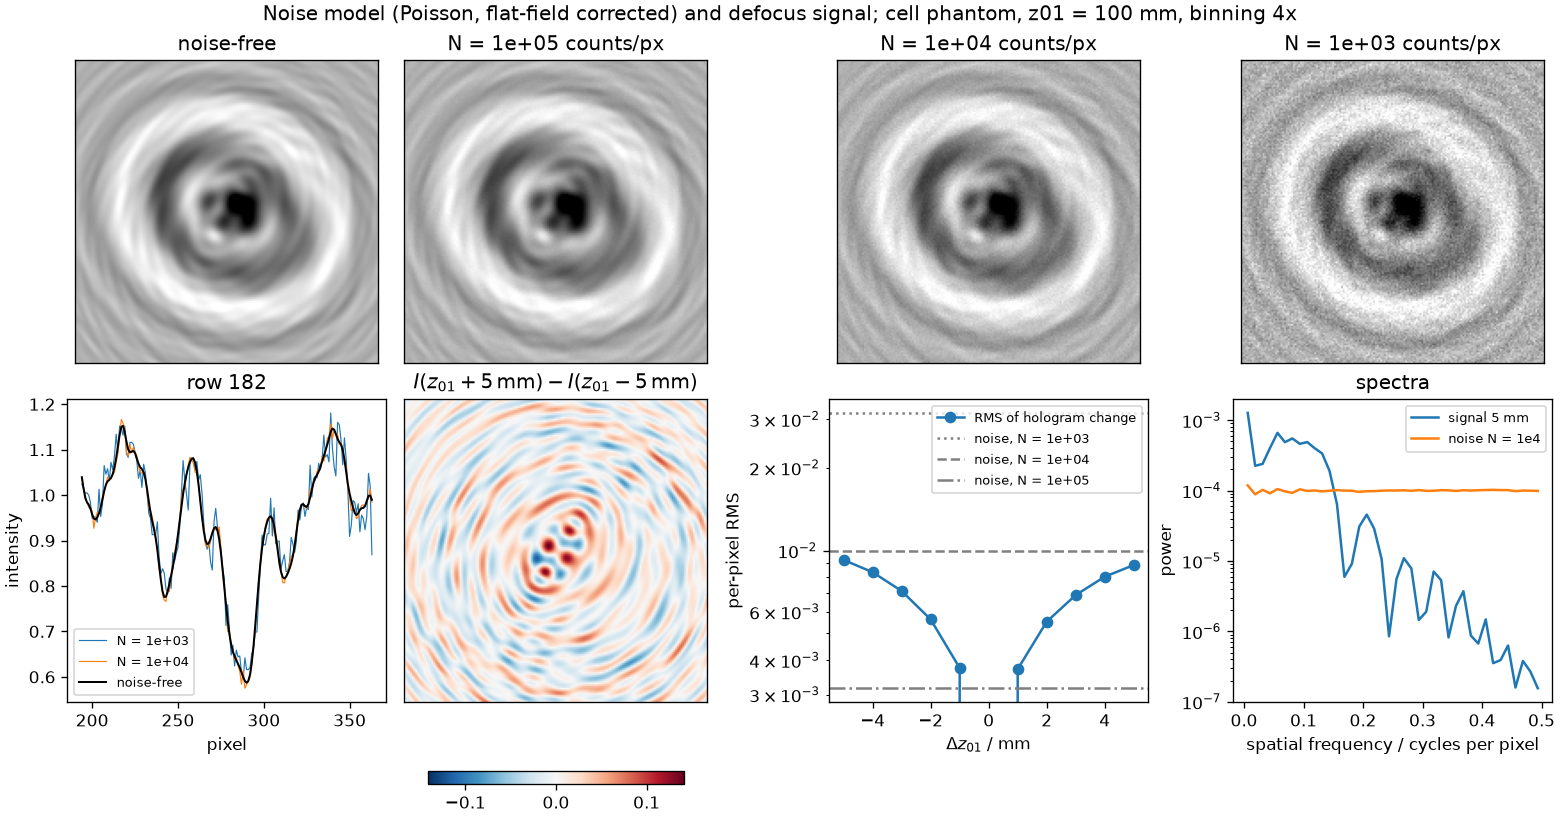
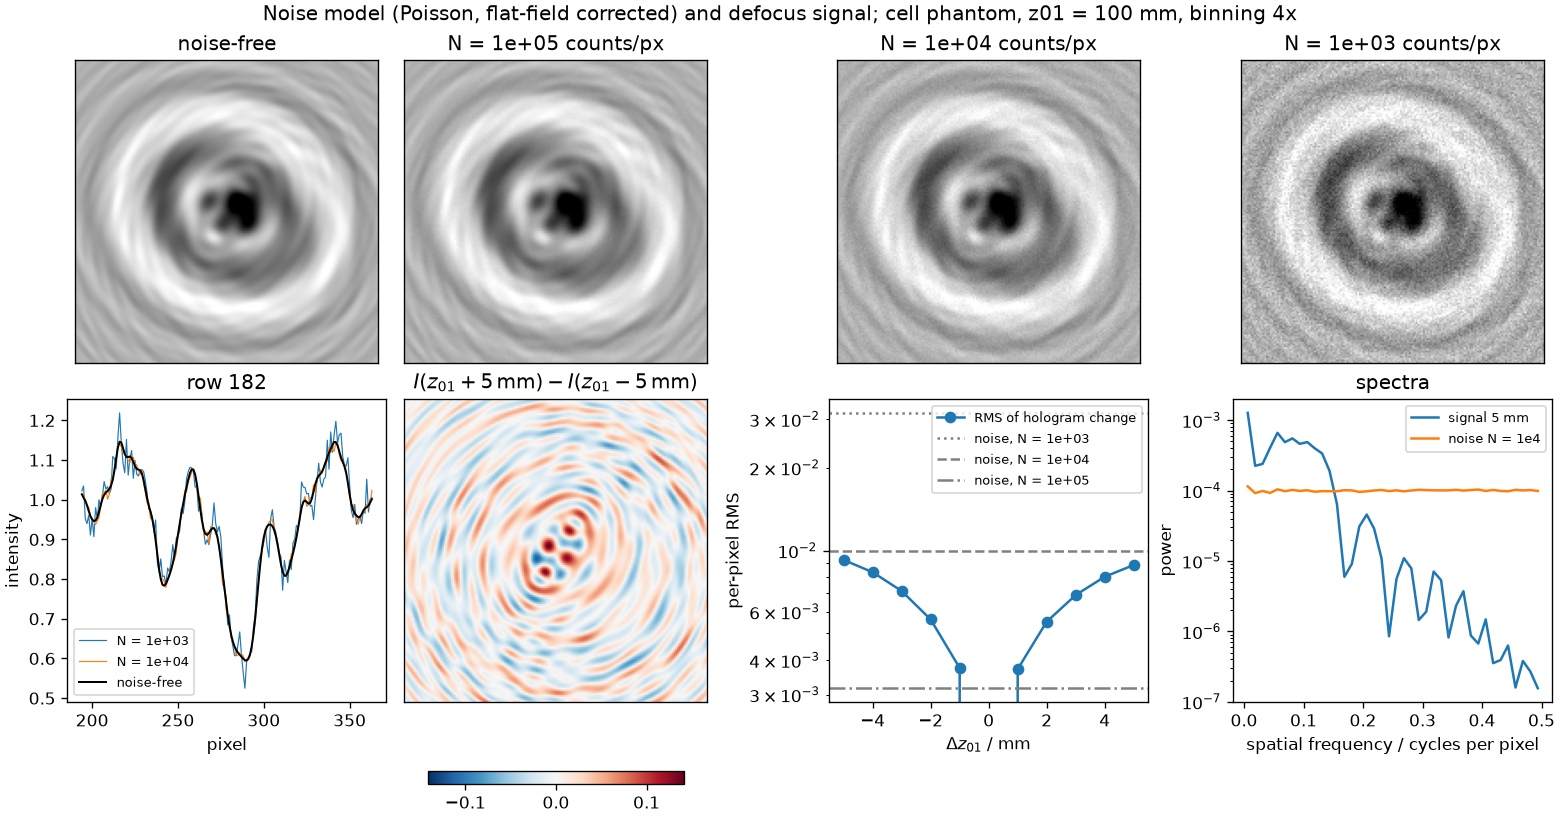
Stage 2 figures: consistent line styles in the binning panels, noise figure at z01 = 100 mm

diff --git a/scripts/make_stage2_figures.py b/scripts/make_stage2_figures.py
@@ -216,7 +216,7 @@ def noise_figure(config: DatasetConfig, settings: Settings, out: Path) -> dict:
     s = HologramGenerator(cfg, device="cpu").sample("train", 0)
     guess = s.labels["z01_guess"]
     phase = s.phase.astype(np.float32)
-    clean = s.clean.astype(np.float64)
+    clean = simulate(cfg, phase, guess)
     rows, cols = np.nonzero(phase < -1e-3)
     cy, cx = int(rows.mean()), int(cols.mean())
     n = phase.shape[0]
